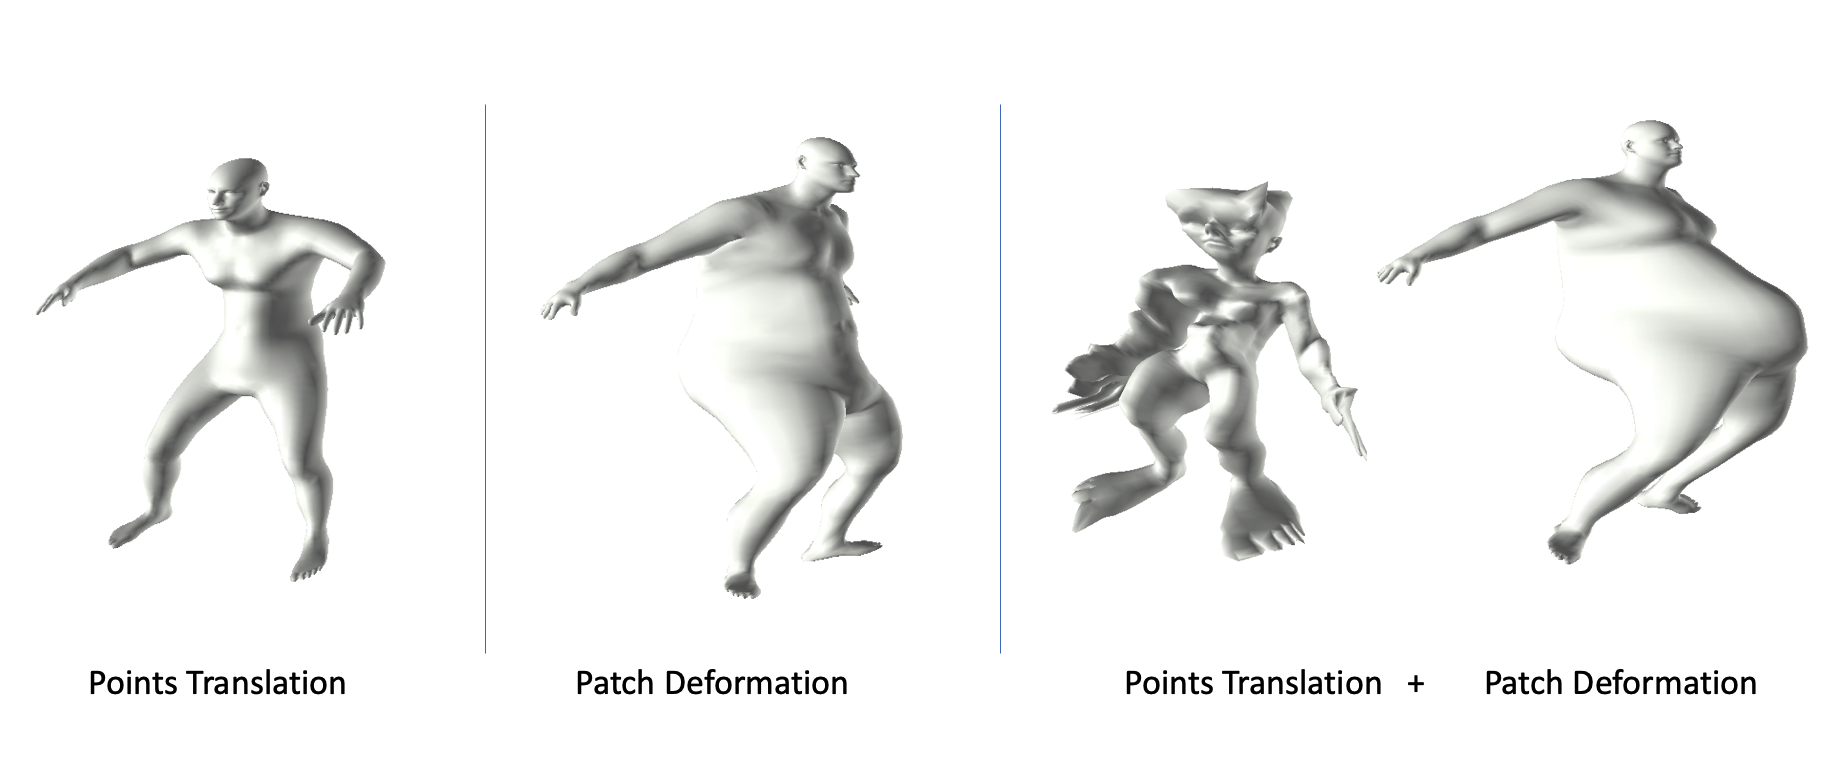
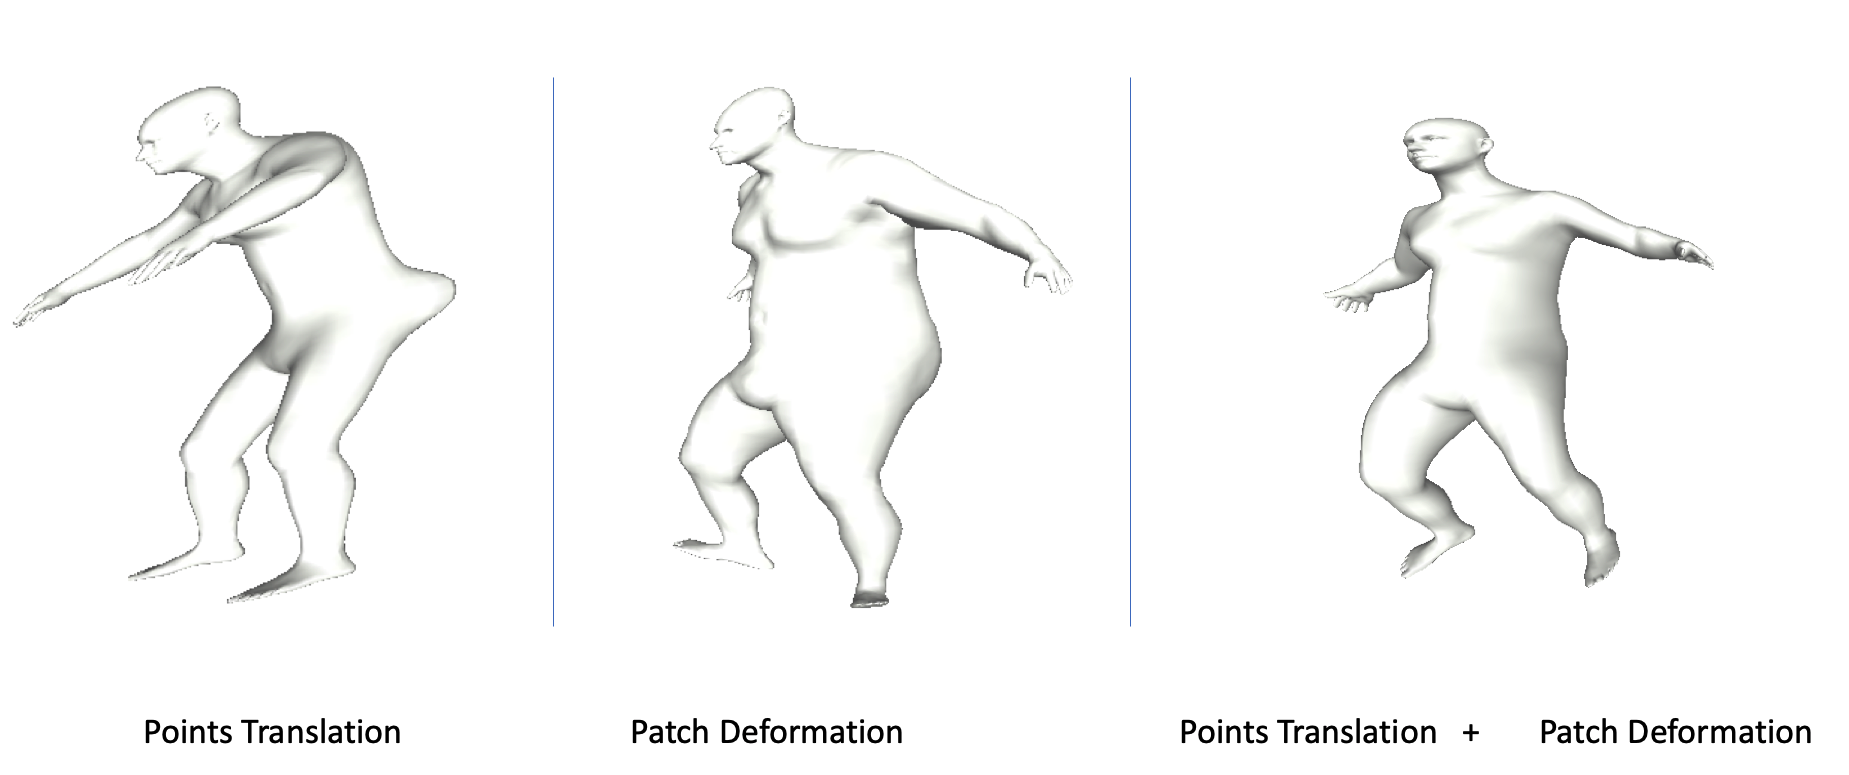
fix last todos, retrained models

diff --git a/inference/launch.py b/inference/launch.py
@@ -14,20 +14,20 @@ opt = parser()
 class Experiments(object):
     def __init__(self):
         self.inference = {
-            0: "python inference/script.py --dir_name learning_elementary_structure_trained_models/0point_translation --HR 1 --faust INTER",
-            1: "python inference/script.py --dir_name learning_elementary_structure_trained_models/1patch_deformation --HR 1 --faust INTER",
-            2: "python inference/script.py --dir_name learning_elementary_structure_trained_models/2point_translation_and_patch_deformation --HR 1 --faust INTER",
-            3: "python inference/script.py --dir_name learning_elementary_structure_trained_models/3D_CODED --HR 1 --faust INTER",
-            4: "python inference/script.py --dir_name learning_elementary_structure_trained_models/0point_translation --HR 1 --faust INTRA",
-            5: "python inference/script.py --dir_name learning_elementary_structure_trained_models/1patch_deformation --HR 1 --faust INTRA",
-            6: "python inference/script.py --dir_name learning_elementary_structure_trained_models/2point_translation_and_patch_deformation --HR 1 --faust INTRA",
-            7: "python inference/script.py --dir_name learning_elementary_structure_trained_models/3D_CODED --HR 1 --faust INTRA",
+            0: "python inference/script.py --dir_name learning_elementary_structure_trained_models_2/0Translation --HR 1 --faust INTER",
+            1: "python inference/script.py --dir_name learning_elementary_structure_trained_models_2/1Deformation --HR 1 --faust INTER",
+            2: "python inference/script.py --dir_name learning_elementary_structure_trained_models_2/2DeformationTranslation --HR 1 --faust INTER",
+            3: "python inference/script.py --dir_name learning_elementary_structure_trained_models_2/3D_CODED --HR 1 --faust INTER",
+            4: "python inference/script.py --dir_name learning_elementary_structure_trained_models_2/0Translation --HR 1 --faust INTRA",
+            5: "python inference/script.py --dir_name learning_elementary_structure_trained_models_2/1Deformation --HR 1 --faust INTRA",
+            6: "python inference/script.py --dir_name learning_elementary_structure_trained_models_2/2DeformationTranslation --HR 1 --faust INTRA",
+            7: "python inference/script.py --dir_name learning_elementary_structure_trained_models_2/3D_CODED --HR 1 --faust INTRA",
         }
         self.trainings = {
-            0: "python training/train.py --id 0 --point_translation 0 --patch_deformation 1",
-            1: "python training/train.py --id 1 --point_translation 0 --patch_deformation 1",
-            2: "python training/train.py --id 2 --point_translation 0 --patch_deformation 0",
-            3: "python training/train.py --id 3 --point_translation 1 --patch_deformation 1",
+            # 0: "python training/train.py --id 0 --point_translation 0  /--patch_deformation 1",
+            1: "python training/train.py --id 1 --point_translation 1 --patch_deformation 0",
+            # 2: "python training/train.py --id 2 --point_translation 0 --patch_deformation 0",
+            # 3: "python training/train.py --id 3 --point_translation 1 --patch_deformation 1",
         }
 
 exp = Experiments()

diff --git a/auxiliary/model.py b/auxiliary/model.py
@@ -234,9 +234,7 @@ class AE_AtlasNet_Humans(nn.Module):
         div = 20
         batch = int(self.template[0].num_vertex_HR / div)
         for i in range(div - 1):
-            rand_grid = self.template[0].template_learned_HR[batch * i:batch * (i + 1)].view(x.size(0), batch,
-                                                                                   self.dim_template).transpose(1,
-                                                                                                                2).contiguous()
+            rand_grid = self.template[0].template_learned_HR[batch * i:batch * (i + 1)].view(x.size(0), batch,self.dim_template).transpose(1,2).contiguous()
             y = x.unsqueeze(2).expand(x.size(0), x.size(1), rand_grid.size(2)).contiguous()
             y = torch.cat((rand_grid, y), 1).contiguous()
             outs.append(self.decoder[0](y))
@@ -271,11 +269,10 @@ class AE_AtlasNet_Humans(nn.Module):
         import pymesh
         if not(self.point_translation or self.patch_deformation):
             self.template[0].template_learned_HR = self.template[0].vertex_HR
-            return
+
         if self.patch_deformation:
             templates = self.get_patch_deformation_template(high_res = True)
             self.template[0].template_learned_HR = templates[0]
-            return
 
         if self.point_translation:
             templates = self.get_points_translation_template()

diff --git a/inference/script.py b/inference/script.py
@@ -108,13 +108,10 @@ def main(opt, network):
                     inputB=os.path.join(opt.dataset_path, "test_scan_112.ply"), path="155_112.txt")
         inf.forward(inputA=os.path.join(opt.dataset_path, "test_scan_156.ply"),
                     inputB=os.path.join(opt.dataset_path, "test_scan_014.ply"), path="156_014.txt")
-
-        # aqui
         inf.forward(inputA=os.path.join(opt.dataset_path, "test_scan_158.ply"),
                     inputB=os.path.join(opt.dataset_path, "test_scan_187.ply"), path="158_187.txt")
         inf.forward(inputA=os.path.join(opt.dataset_path, "test_scan_161.ply"),
                     inputB=os.path.join(opt.dataset_path, "test_scan_103.ply"), path="161_103.txt")
-        # aqui
         inf.forward(inputA=os.path.join(opt.dataset_path, "test_scan_166.ply"),
                     inputB=os.path.join(opt.dataset_path, "test_scan_037.ply"), path="166_037.txt")
         inf.forward(inputA=os.path.join(opt.dataset_path, "test_scan_167.ply"),

diff --git a/training/train.py b/training/train.py
@@ -31,3 +31,5 @@ for epoch in range(opt.nepoch):
 
 trainer.save_new_experiments_results()
 script.main(opt, trainer.network) #Inference
+opt.faust = "INTRA"
+script.main(opt, trainer.network) #Inference

diff --git a/README.md b/README.md
@@ -16,24 +16,12 @@ In [Neurips, 2019](https://neurips.cc/Register2?showPanel=2).
 <details><summary>Faust results</summary>
 
 
-| Method |L2 loss SURREAL| Faust Intra results |  Faust Inter results |
-| ------------------------------------------ | ----- |  ----- |  ----- |
-| **3D-CODED**                               | 1.487 | 1.978 |2.804 |
-| **Points Translation**                      | 1.204 | **1.689** |2.687 |
-| **Patch Deformation**                                 |1.317|  1.822 | 2.636 |
-|  **Points Translation + Patch Deformation** |1.318| 1.727|  **2.594**  |
-|  **Points Translation + Patch Deformation + RotInvY** |-|  - |  2.962     |
-
-
-
-Updated--
-
-| Method                                               | L2 loss SURREAL | Faust Intra results | Faust Inter results |
-| ---------------------------------------------------- | --------------- | ------------------- | ------------------- |
-| **3D-CODED**                                         | 1.364 (1.157)               | -              |2.841               |
-| **Points Translation**                               | 1.387 (0.995)  | -           | 2.69      |
-| **Patch Deformation**                                | 2.101 (1.427)               |-               | 3.395        |
-| **Points Translation + Patch Deformation**           | 2.221 (1238) |-              | 36       |
+| Method                                               | L2 Train SURREAL | L2 Val SURREAL | Faust Intra results | Faust Inter results |
+| ---------------------------------------------------- | --------------- |  --------------- | ------------------- | ------------------- |
+| **3D-CODED**                                         | 1.098 | 1.315   | 1.747         |2.641               |
+| **Points Translation**                              |9.980 | 1.263 | **1.626** | 2.714 |
+| **Patch Deformation**                             | 1.028| 1.436      |1.742               | **2.578**    |
+| **Points Translation + Patch Deformation**           |**0.969**| **1.173 ** |1.676              | 2.779       |
 
 
 
@@ -59,7 +47,7 @@ This implementation uses [Pytorch](http://pytorch.org/).
 
 ```shell
 git clone https://github.com/ThibaultGROUEIX/3D-CODED.git ## Download the repo
-git submodule update --init
+cd 3D-CODED; git submodule update --init
 conda env create -f 3D-CODED-ENV.yml ## Create python env
 source activate pytorch-3D-CODED
 cd ./extension; python setup.py install; cd ..
